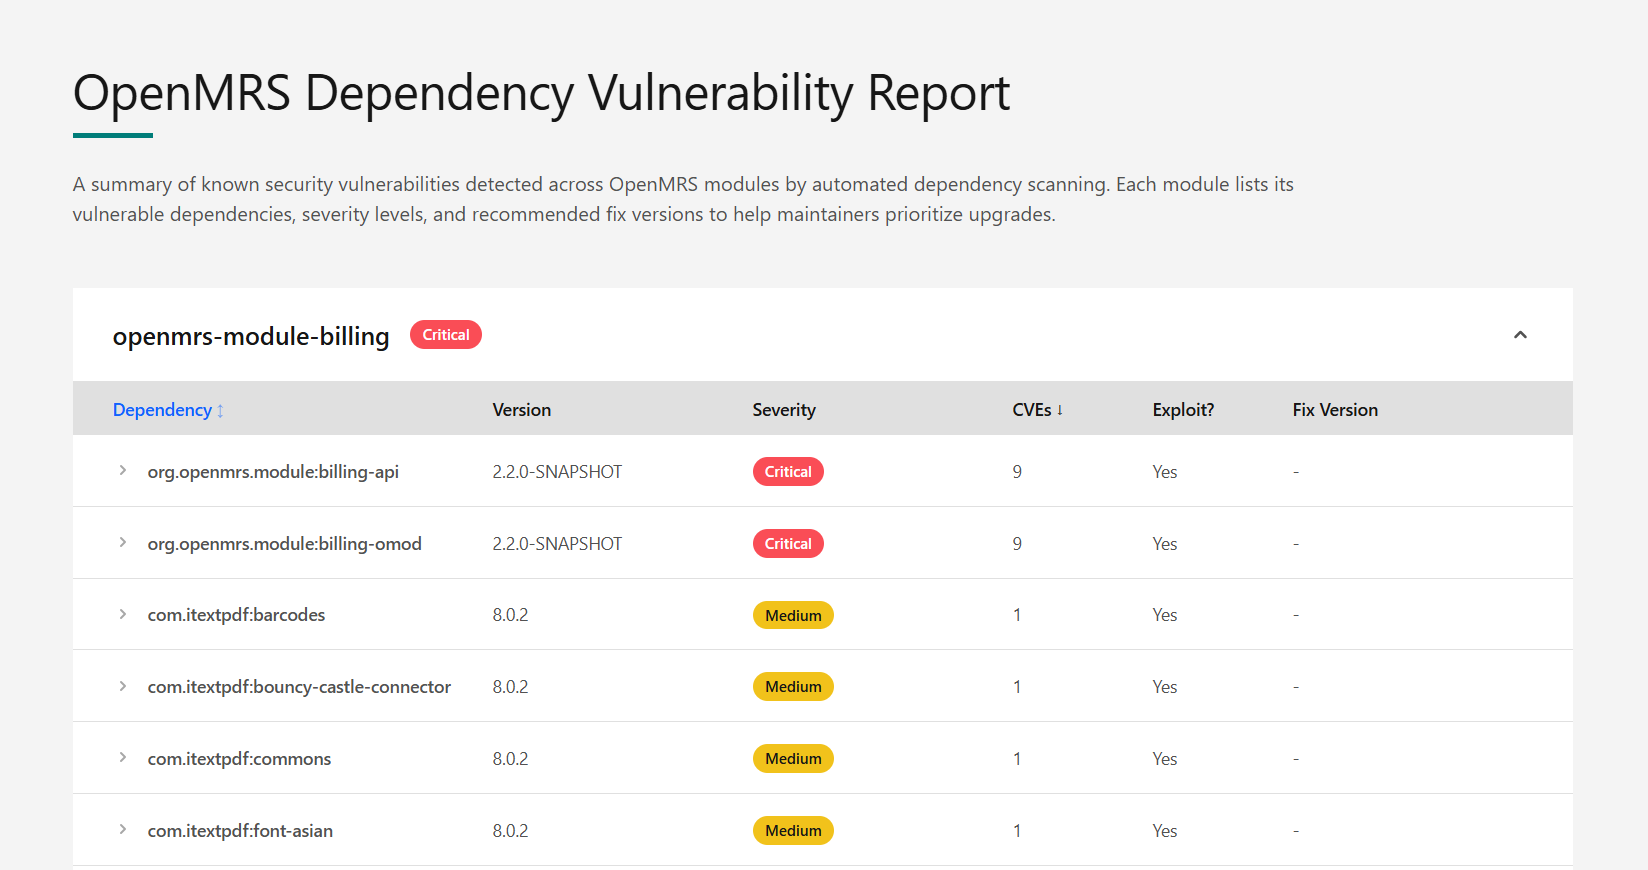
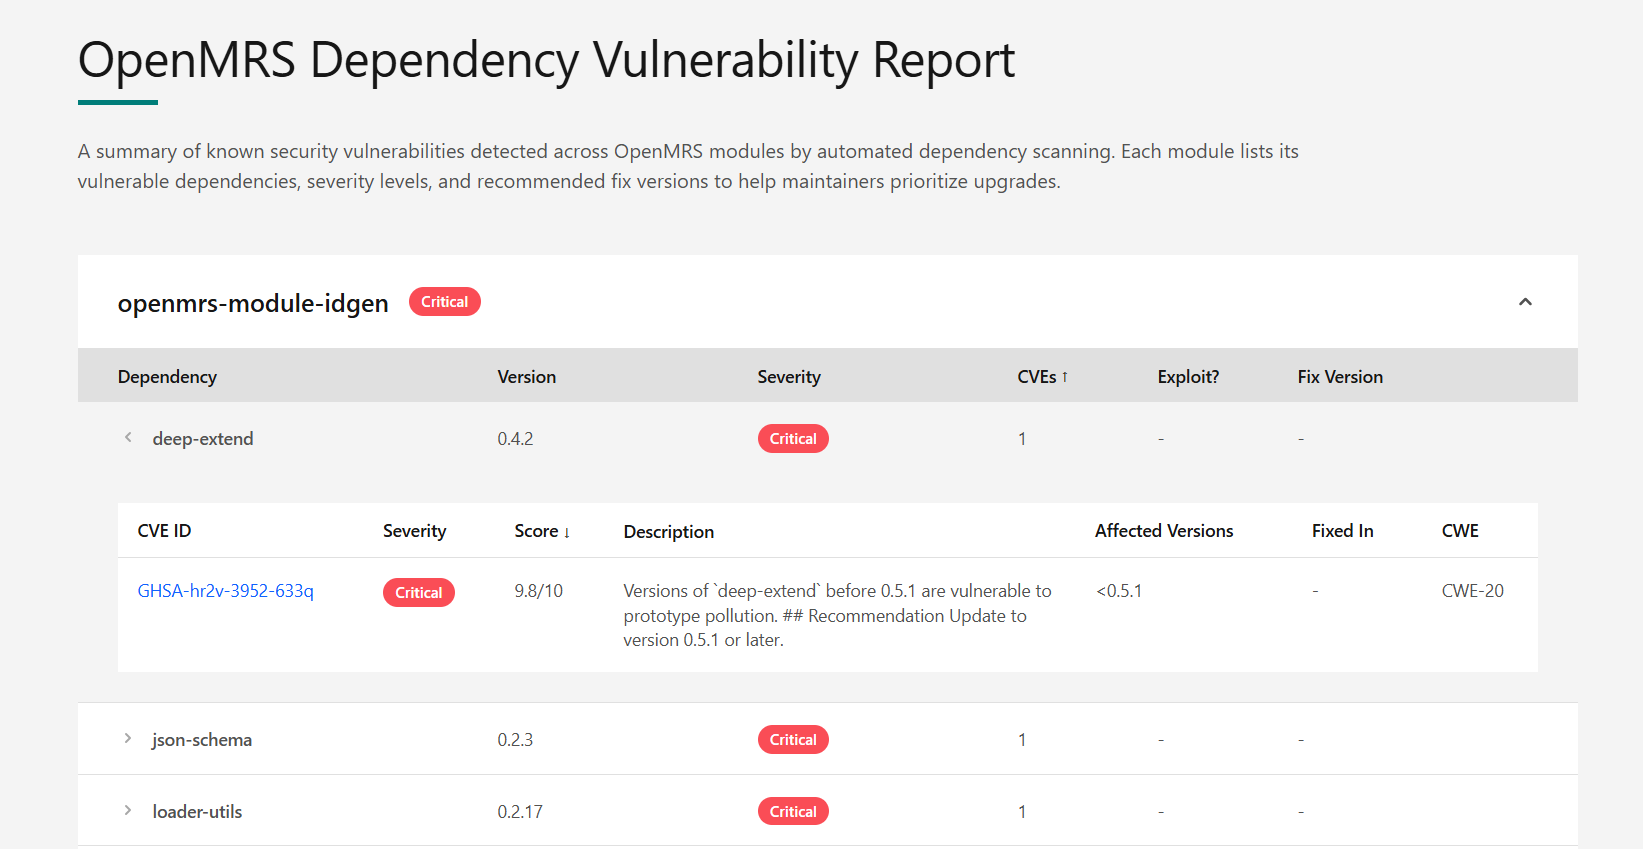
update: use dependency-check-report.json from GitHub Actions artifacts

diff --git a/dashboard/src/App.tsx b/dashboard/src/App.tsx
@@ -6,101 +6,100 @@ import { hydrateDependency } from './utils/dependencyUtils';
 import { hydrateRepository } from './utils/repositoryUtils';
 import { sortCves, sortDependencies, sortRepositories } from './utils/sorting';
 
-// Import JSONs (will fallback to static values if dynamic script not run)
 import openmrsCore from './data/openmrs-core.json';
 import openmrsBilling from './data/openmrs-module-billing.json';
 import openmrsIdgen from './data/openmrs-module-idgen.json';
 
-interface GitLabVulnerability {
-  id?: string;
-  name?: string;
-  description?: string;
-  severity?: string;
-  score?: number;
-  cwe?: string;
-  solution?: string;
-  location?: {
-    dependency?: {
-      package?: { name?: string };
-      version?: string;
-    };
-  };
-  cvss_vectors?: Array<{ score?: number }>;
-  cvss_v3?: { score?: number };
-  identifiers?: Array<{ type?: string; name?: string; value?: string }>;
-  links?: Array<{ name?: string }>;
+interface OwaspDependency {
+  fileName?: string;
+  filePath?: string;
+  packages?: Array<{ id?: string }>;
+  vulnerabilities?: Array<{
+    name?: string;
+    severity?: string;
+    cvssv3?: { baseScore?: number; baseSeverity?: string };
+    cvssv2?: { score?: number; severity?: string };
+    description?: string;
+    cwes?: string[];
+    references?: Array<{ name?: string; url?: string }>;
+    vulnerableSoftware?: Array<{ software?: { id?: string; versionEndExcluding?: string; versionEndIncluding?: string } }>;
+  }>;
 }
 
-interface GitLabReport {
-  vulnerabilities?: GitLabVulnerability[];
+interface OwaspReport {
+  projectInfo?: { name?: string };
+  dependencies?: OwaspDependency[];
 }
 
-// Helper to parse GitLab dependency scanning json into our models
-const parseReport = (repoName: string, jsonFile: GitLabReport): RepositoryData => {
-  const fileVulnerabilities = jsonFile.vulnerabilities || [];
+const parseReport = (repoName: string, jsonFile: OwaspReport): RepositoryData => {
+  const dependencies: DependencyData[] = [];
 
-  // Group CVEs by dependency
-  const depMap = new Map<string, DependencyData>();
+  for (const dep of jsonFile.dependencies || []) {
+    if (!dep.vulnerabilities || dep.vulnerabilities.length === 0) continue;
 
-  for (const v of fileVulnerabilities) {
-    const depName = v.location?.dependency?.package?.name || "Unknown package";
-    const depKey = `${depName}@${v.location?.dependency?.version || "Unknown version"}`;
-
-    // Attempt to extract fields based on common structures
-    let score: number | undefined = undefined;
-    if (v.cvss_vectors && v.cvss_vectors.length > 0) {
-      score = v.cvss_vectors[0].score;
-    } else if (v.cvss_v3 && v.cvss_v3.score) {
-      score = v.cvss_v3.score;
-    } else if (v.score !== undefined) {
-      score = v.score;
+    let depName = dep.fileName || "Unknown dependency";
+    let version = "Unknown version";
+    if (dep.packages && dep.packages.length > 0 && dep.packages[0].id) {
+      const parts = dep.packages[0].id.split('@');
+      if (parts.length > 1) {
+        version = parts.pop() || "Unknown version";
+        depName = parts.join('@').replace(/^pkg:[^/]+\//, '');
+      }
     }
 
-    let cwe: string | undefined = undefined;
-    if (v.identifiers && Array.isArray(v.identifiers)) {
-      const cweIdentifier = v.identifiers.find(i => i.type && i.type.toLowerCase() === 'cwe');
-      if (cweIdentifier) cwe = cweIdentifier.name || cweIdentifier.value;
-    }
-    if (!cwe && v.cwe) cwe = v.cwe;
+    const cves: CveData[] = dep.vulnerabilities.map(v => {
+      let score = v.cvssv3?.baseScore ?? v.cvssv2?.score;
+      let rawSeverity = v.severity ?? v.cvssv3?.baseSeverity ?? v.cvssv2?.severity ?? "Unknown";
+      let severity = rawSeverity.charAt(0).toUpperCase() + rawSeverity.slice(1).toLowerCase();
+      let cwe = v.cwes ? v.cwes.join(", ") : undefined;
 
-    let hasExploit = false;
-    if (v.links && Array.isArray(v.links)) {
-      hasExploit = v.links.some(l => l.name && l.name.toUpperCase().includes('EXPLOIT'));
-    }
+      let hasExploit = false;
+      if (v.references && Array.isArray(v.references)) {
+        hasExploit = v.references.some(r => r.name && r.name.toUpperCase().includes('EXPLOIT'));
+      }
 
-    const cve: CveData = {
-      id: v.id || v.name || "Unknown CVE",
-      name: v.name || "Unknown",
-      description: v.description,
-      severity: v.severity,
-      score,
-      affectedVersions: v.location?.dependency?.version,
-      fixedIn: v.solution ? v.solution.replace(/Upgrade to version|Upgrade to/gi, '').trim() : undefined,
-      cwe,
-      hasExploit,
-    };
+      let fixedIn = undefined;
+      let affectedVersions = "-";
+      if (v.vulnerableSoftware && v.vulnerableSoftware.length > 0) {
+        const sw = v.vulnerableSoftware[0].software;
+        if (sw) {
+          if (sw.versionEndExcluding) {
+            fixedIn = sw.versionEndExcluding;
+            affectedVersions = `< ${sw.versionEndExcluding}`;
+          } else if (sw.versionEndIncluding) {
+            affectedVersions = `<= ${sw.versionEndIncluding}`;
+          } else {
+            const parts = sw.id?.split(':') || [];
+            if (parts.length >= 6 && parts[5] !== '*') {
+              affectedVersions = parts[5].replace(/\\/g, '');
+            }
+          }
+        }
+      }
 
-    if (!depMap.has(depKey)) {
-      depMap.set(depKey, {
-        name: depName,
-        version: v.location?.dependency?.version || "Unknown version",
-        cves: []
-      });
-    }
+      return {
+        id: v.name || "Unknown CVE",
+        name: v.name || "Unknown",
+        description: v.description,
+        severity: severity,
+        score,
+        affectedVersions,
+        fixedIn,
+        cwe,
+        hasExploit,
+      };
+    });
 
-    depMap.get(depKey)!.cves.push(cve);
+    const sortedCves = sortCves(cves);
+    dependencies.push(hydrateDependency({
+      name: depName,
+      version,
+      cves: sortedCves
+    }));
   }
-
-  // Hydrate and sort dependencies
-  const dependencies: DependencyData[] = Array.from(depMap.values()).map(dep => {
-    // Sort CVEs inside dependency
-    const sortedCves = sortCves(dep.cves);
-    return hydrateDependency({ ...dep, cves: sortedCves });
-  });
 
   const sortedDependencies = sortDependencies(dependencies);
 
-  // Return hydrated tracking repository
   return hydrateRepository({
     name: repoName,
     dependencies: sortedDependencies

diff --git a/README.md b/README.md
@@ -4,7 +4,6 @@ A dynamic dashboard that visualizes required dependency updates based on GitLab 
 
 <div align="center">
   <img src="dashboard/public/pic 1.png" alt="Dashboard Preview 1" width="45%" />
-  <img src="dashboard/public/pic 2.png" alt="Dashboard Preview 2" width="45%" />
 </div>
 
 ## Setup
@@ -23,8 +22,8 @@ npm run build
 ```
 
 ## Implemented Features
-- **Dynamic Fetching**: Node script (`npm run fetch-data`) connects to GitHub API, downloads the latest workflow artifact zip, and updates the local `.json` reports.
-- **Hierarchical Parsing**: Maps flat JSON lists into a tiered relation: Repository → Dependency → CVEs.
+- **Dynamic Fetching**: Node script (`fetch-data.mjs`) connects to GitHub API, downloads the latest artifacts, and extracts the enriched `dependency-check-report.json` payloads.
+- **Hierarchical Parsing**: Maps complex OWASP JSON into a clean, tiered relation: Repository → Dependency → CVEs.
 - **Strict Sorting**: 
   - Supports synchronized multi-column sorting natively across Dependencies and CVEs using CVSS Score, Severity, Semantic Versioning, or Alphabetics.
 - **Semantic Versioning**: Extracts combinations to determine the absolute highest `fixedIn` patch version required.
